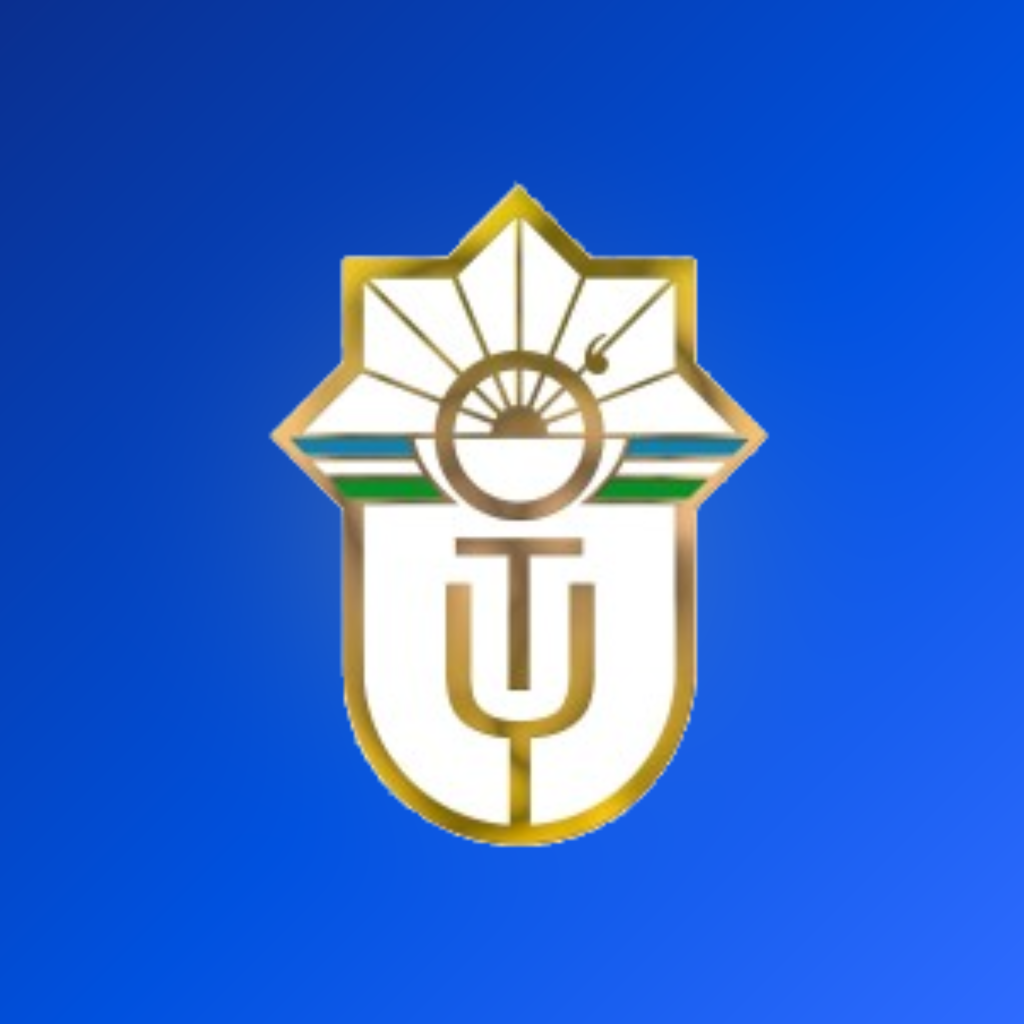
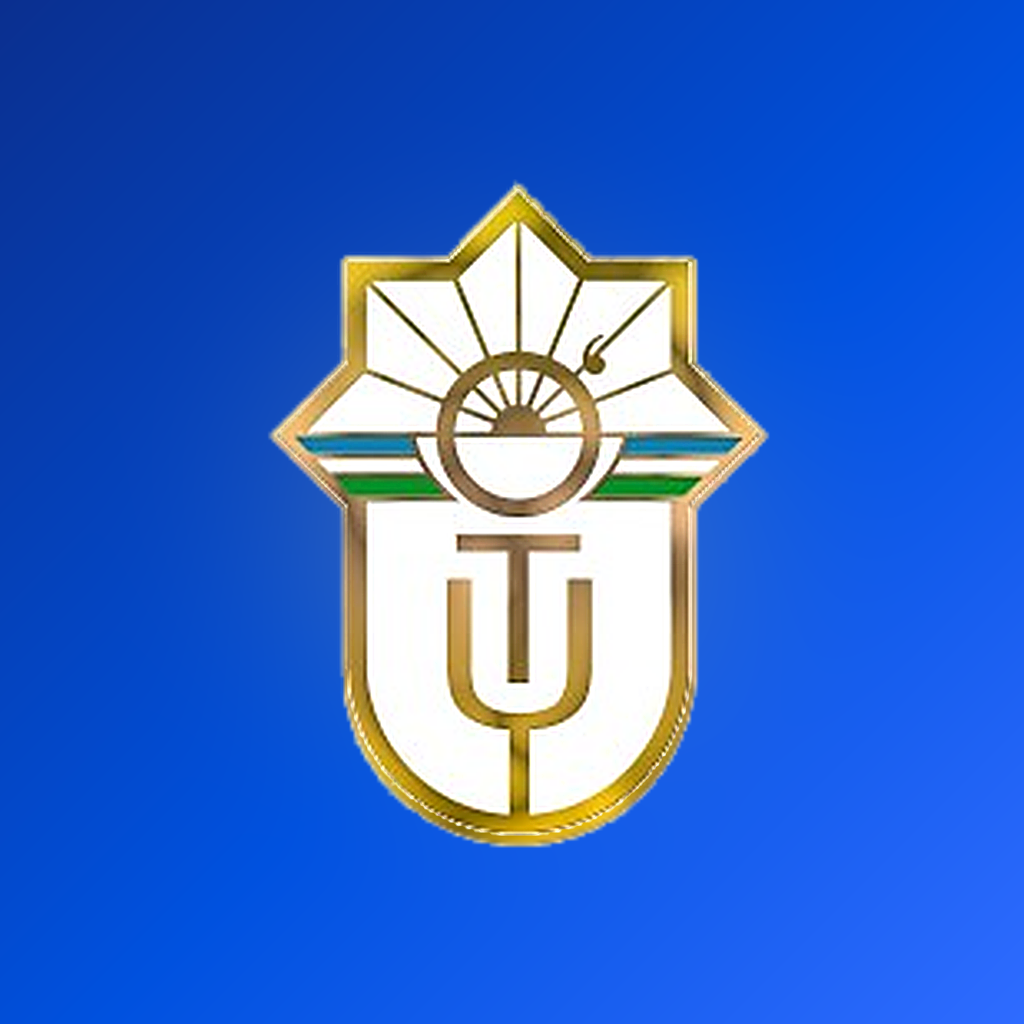
v1.0.1: do'kon ikonkalari va Play banneri
- assets/icon.png alfa-kanalsiz (App Store talabi), logo aniqroq
- store/: App Store 1024, Play 512 ikonka, Play feature graphic 1024x500

Changed region(s): [[0.25, 0.1875, 0.75, 0.8438]]

diff --git a/CHANGELOG.md b/CHANGELOG.md
@@ -8,6 +8,17 @@ Versiyalar [Semantic Versioning](https://semver.org/) bo'yicha yuritiladi: `MAJO
 
 Bu versiya foydalanuvchiga do'konda va Profil ekranida ko'rinadi (`app.json` → `expo.version`). Do'kondagi build raqamlarini (Android `versionCode`, iOS `buildNumber`) EAS har production build'da o'zi oshiradi.
 
+## [1.0.1] — 2026-10-20
+
+### Tuzatildi
+- Ilova ikonkasi (`assets/icon.png`) alfa-kanalsiz (RGB) qilindi. App Store 1024×1024 ikonkada alfa-kanalni qabul qilmaydi. Logo aniqroq chiqadi.
+
+### Qo'shildi
+- `store/` papkasi, do'kon sahifasi uchun:
+  - `app-store-icon-1024.png` — App Store ikonkasi (1024×1024, RGB);
+  - `play-store-icon-512.png` — Google Play ikonkasi (512×512);
+  - `play-feature-graphic-1024x500.png` — Google Play banneri (Feature graphic).
+
 ## [1.0.0] — 2026-10-19
 
 Birinchi versiya: do'konlarga chiqarish uchun tayyor.

diff --git a/README.md b/README.md
@@ -66,6 +66,16 @@ eas submit -p ios --profile production       # App Store Connect → TestFlight
 
 ## 5. Do'kon sahifasi uchun ma'lumotlar
 
+Tayyor rasmlar `store/` papkasida:
+
+| Fayl | Qayerga yuklanadi |
+|---|---|
+| `store/app-store-icon-1024.png` | App Store Connect → App Icon (1024×1024, alfa-kanalsiz) |
+| `store/play-store-icon-512.png` | Play Console → Store listing → App icon (512×512) |
+| `store/play-feature-graphic-1024x500.png` | Play Console → Store listing → Feature graphic (1024×500) |
+
+Ekran rasmlarini (screenshot) telefondan olasiz: Ovoz, O'rganish, Buzilish va Profil ekranlari. Play uchun kamida 2 ta, App Store uchun 6.7" va 6.5" iPhone o'lchamida 3–10 ta.
+
 | Maydon | Qiymat |
 |---|---|
 | Nomi | AI assist |
